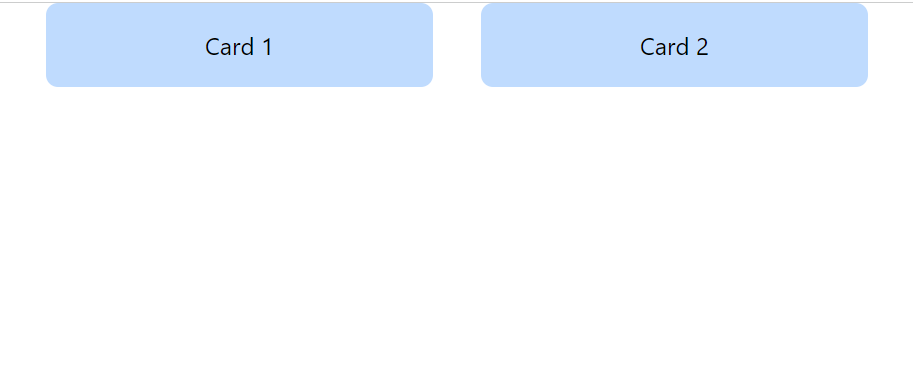
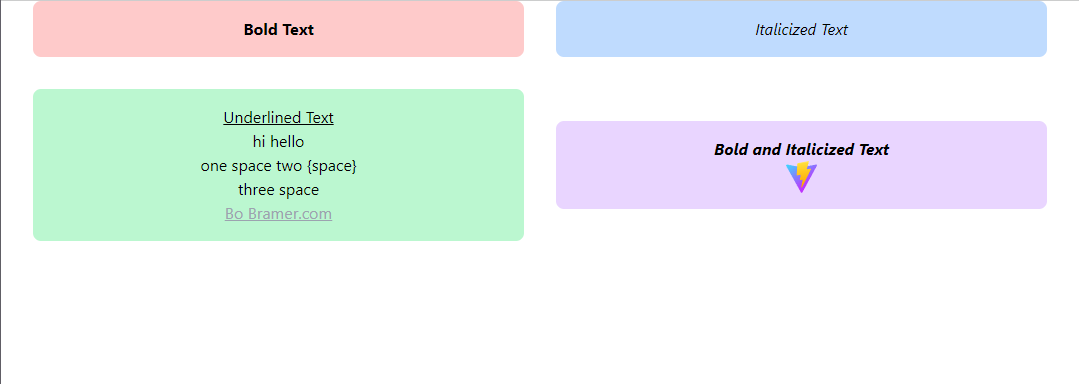
updated parser and readme

diff --git a/lib/parser.ts b/lib/parser.ts
@@ -1,8 +1,18 @@
-const regex: RegExp = /(\\begin{[^}]+}(?:\[.*\])?)|(\\end{[^}]+})/g;
 import { TreeNode } from './types';
 
 export function parse(text: string): any {
-    const queue: string[] = text.split(regex).filter(i => i?.length).map(i => i.replace(/\r\n/g, '\n'));
+    const queue: string[] = text
+        .replace(/\r\n|\n/g, '\n')
+        .replace(/ {2,}/g, '')
+        .replace(/\n\n/g, '<br>')
+        .replace(/\n/g, ' ')
+        .split(/\\/g)
+        .filter(i => i)
+        .flatMap(i => ('\\' + i).split(/(\\.*?(?:{.*?}){1,}(?:\[.*?\]){0,})/gm))
+        .map(i => i.trim())
+        .filter(i => i && i !== '<br>')
+        .flatMap(i => i.split(/<br>/g));
+
     const root: TreeNode = {
         name: 'root',
         children: []
@@ -14,11 +24,13 @@ export function parse(text: string): any {
     for (const item of queue) {
         switch (true) {
             case item.startsWith('\\begin'): {
-                const name = item.match(/\{(.*)\}/);
+                const [name, ...values] = item.match(/\{.*?\}/g)?.map(i => i.substring(1, i.length - 1)) ?? [];
+                console.log({ name, values });
                 const className = item.match(/\[(.*)\]/);
                 const node: TreeNode = {
-                    name: name ? name[1] : '',
+                    name,
                     className: className ? className[1] : undefined,
+                    values: values?.length ? values : undefined,
                     children: [],
                 };
 
@@ -34,26 +46,37 @@ export function parse(text: string): any {
                 break;
             }
 
-            default: {
-                if (stack.length === 1) continue; // no text in root
-                const children = item
-                    .replace(/^\n|\n+$/g, '')
-                    .split(/\n/g)
-                    .map(i => i.trim())
-                    .map(i => i.replaceAll('_ _', ''))
-                    .filter(i => i?.length);
-                if (!children?.length) continue;
-
-                if (children[children.length - 1] === '<br>') children.pop();
+            case item.startsWith('\\'): {
+                const name = item.match(/\\(.*?)\{/);
+                const values = item.match(/\{.*?\}/g)?.map(i => i.substring(1, i.length - 1));
+                const className = item.match(/\[(.*)\]/);
+                const node: TreeNode = {
+                    name: name ? name[1] : '',
+                    values: values ?? undefined,
+                    className: className ? className[1] : undefined,
+                };
 
                 current = stack[stack.length - 1];
                 if (!current.children) throw new Error(`invalid syntax near ${item}`);
-                for (const child in children) {
-                    current.children.push({
-                        name: 'p',
-                        value: children[child],
-                    });
-                }
+                current.children.push(node);
+                break;
+            }
+
+            default: {
+                if (stack.length === 1) continue; // no text in root
+                current = stack[stack.length - 1];
+                if (!current.children) throw new Error(`invalid syntax near ${item}`);
+
+                const formatted = item
+                    .replaceAll('_ _', '')
+                    .replace(/\*\*(.*?)\*\*/g, '<b>$1</b>')
+                    .replace(/\*(.*?)\*/g, '<i>$1</i>')
+                    .replace(/__(.*?)__/g, '<u>$1</u>')
+
+                current.children.push({
+                    name: 'p',
+                    values: [formatted]
+                });
             }
         }
     }

diff --git a/example/src/App.tsx b/example/src/App.tsx
@@ -1,23 +1,26 @@
-import './index.css';
-import testString from './test.tex?raw';
 import { Tree } from 'page-parser';
+import testString from './test.tex?raw';
+
+import './index.css';
 
 export default function App() {
     return (
-        <Tree
-            file={testString}
-            componentDefinitions={{
-                Card: ({ children, className }) => (
-                    <div className={`flex flex-1 flex-col items-center py-4 bg-blue-200 rounded-lg ${className}`}>
-                        {children}
-                    </div>
-                ),
-                Split: ({ children, className }) => (
-                    <div className={`w-full flex flex-row items-center gap-8 px-8 ${className}`}>
-                        {children}
-                    </div>
-                )
-            }}
-        />
+        <>
+            <Tree
+                file={testString}
+                componentDefinitions={{
+                    Card: ({ children, className }) => (
+                        <div className={`flex flex-1 flex-col items-center py-4 bg-blue-200 rounded-lg ${className}`}>
+                            {children}
+                        </div>
+                    ),
+                    Split: ({ children, className }) => (
+                        <div className={`w-full flex flex-row items-center gap-8 px-8 ${className}`}>
+                            {children}
+                        </div>
+                    )
+                }}
+            />
+        </>
     );
 };

diff --git a/lib/Tree.tsx b/lib/Tree.tsx
@@ -10,7 +10,8 @@ type TreeProps = { file: string } & BaseProps;
 type BaseProps = {
     componentDefinitions?: Record<string, React.FC<{
         className?: string;
-        children: React.ReactNode;
+        children?: React.ReactNode;
+        values?: string[]
     }>>;
     DefaultComponent?: React.FC<{
         className?: string;
@@ -23,7 +24,7 @@ export function TreeBranch(props: BranchProps) {
     const Component = components?.[node.name] ?? baked[node.name] ?? DefaultComponent ?? Default;
 
     return (
-        <Component className={node.className} value={node.value}>
+        <Component className={node.className} values={node.values}>
             {node.children?.map((child, i) => (
                 <TreeBranch
                     key={i}
@@ -36,7 +37,7 @@ export function TreeBranch(props: BranchProps) {
     );
 };
 
-function Default({ children, className }: { children: React.ReactNode, className?: string }) {
+export function Default({ children, className }: { children: React.ReactNode, className?: string }) {
     return (
         <div className={className}>
             {children}
@@ -50,4 +51,12 @@ export function Tree({ file, componentDefinitions, DefaultComponent }: TreeProps
         componentDefinitions={componentDefinitions}
         DefaultComponent={DefaultComponent}
     />;
+}
+
+export function Debug({ file }: { file: string }) {
+    return (
+        <pre>
+            {JSON.stringify(parse(file), null, 4)}
+        </pre>
+    )
 }

diff --git a/lib/baked.tsx b/lib/baked.tsx
@@ -3,9 +3,13 @@ import React from 'react';
 export const baked: Record<string, React.FC<{
     className?: string;
     children: React.ReactNode
-    value?: string;
+    values?: string[];
 }>> = {
-    "p": ({ value, className }) => <p className={className} dangerouslySetInnerHTML={{ __html: value ?? '' }} />,
-    "br": () => <br />,
-    "div": ({ children, className }) => <div className={className}>{children}</div>,
+    p: ({ values, className }) => <p className={className} dangerouslySetInnerHTML={{ __html: values?.[0] ?? '' }} />,
+    br: () => <br />,
+    div: ({ children, className }) => <div className={className}>{children}</div>,
+    image: ({ values, className }) => <img className={className} src={values?.[0]} />,
+    url: ({ values, className }) => <a href={values?.[0]} className={className}>{values?.[1]}</a>,
+    vspace: ({ values }) => <div style={{ height: values?.[0] }} />,
+    hspace: ({ values }) => <div style={{ width: values?.[0] }} />,
 };

diff --git a/lib/types.ts b/lib/types.ts
@@ -2,5 +2,5 @@ export type TreeNode = {
     name: string;
     className?: string;
     children?: TreeNode[];
-    value?: string;
+    values?: string[];
 };

diff --git a/example/src/test.tex b/example/src/test.tex
@@ -1,8 +1,27 @@
 \begin{Split}
-    \begin{Card}
-        Card 1
+    \begin{Card}{hello}[bg-red-200]
+        **Bold Text**
     \end{Card}
     \begin{Card}
-        Card 2
+        *Italicized Text*
+    \end{Card}
+\end{Split}
+
+\begin{Split}[mt-8]
+    \begin{Card}[bg-green-200]
+        __Underlined Text__
+
+        hi
+        hello
+
+        one space
+        two {space}
+
+        three space
+        \url{https://bo-bramer.com}{Bo Bramer.com}[text-gray-400 underline]
+    \end{Card}
+    \begin{Card}[bg-purple-200]
+        ***Bold and Italicized Text***
+        \image{vite.svg}[h-8]
     \end{Card}
 \end{Split}

diff --git a/README.md b/README.md
@@ -32,9 +32,95 @@ export default {
 
 ## Documentation
 
-### Data
+### Plain Text
 
-Data to be parsed must be a string in latex format (with spaces). This can be an inline variable, or it can be imported from a separate file. You can also pass in a dictionary for custom components defined in your Tex tree. You can also pass in a default component JSX function. Here's an example usage in Vite with React:
+Formatted text can be rendered in a few different ways such as:
+
+- \*\*Bold Text\*\* **Bold Text**
+- \*Italicized Text\* *Italicized Text*
+- \_\_Underlined Text\_\_ **Underlined Text**
+- \*\*\*Bold and Italicized Text\*\*\* ***Bold and Italicized Text***
+
+Some important things to note:
+
+Plain text separated by a single line will be condensed into one line, while plain text separated by multiple lines will remain separated. This is an intentional design choice that helps with .tex formatting while editing
+
+### Default Components
+
+#### Image
+
+```tex
+\image{src}[className]
+```
+
+#### Hyperlink
+
+```tex
+\url{link}{display}[className]
+```
+
+#### Horizontal and Vertical spacing
+
+```tex
+\vspace{space values (accepts number, string)}
+```
+
+```tex
+\hspace{space values (accepts number, string)}
+```
+
+### Custom Components
+
+You can define a custom JSX component to use in your tex definition. Every component definition can have `values`, `className`, and `children` values. Here are the type definitions for these props:
+
+```ts
+type ComponentProps = {
+    className?: string;
+    children?: React.ReactNode;
+    values?: string[]
+};
+```
+
+A empty component will not have children. This is an example of that:
+
+```tex
+\componentName{value1}{value2}{value3}{...}[className]
+```
+
+A environment component will have children. This is an example of that:
+
+```tex
+\begin{componentName}{value1}{value2}{value3}{...}[className]
+    children go here
+    these can be plain text, empty components, or nested environment components
+\end{componentName}
+```
+
+### Debugging
+
+A debug component is also included. You can use this to view the parse tree of the tex string. It will output a JSON string onto the page. You can use it as follows (this is using vite, so you can import raw files using the ?raw delim):
+
+```tsx
+import { Debug } from 'page-parser';
+import definition from './definition.tex?raw';
+
+export default function App() {
+    return (
+        <Debug file={definition}/>
+    );
+};
+```
+
+You can also use the parse function to gather the actual tree as a JSON object. You can use it as follows:
+
+```ts
+import { parse } from 'page-parser';
+import definition from './definition.tex?raw';
+
+console.log(parse(definition));
+```
+
+### Full example
 
 #### App.tsx
 
@@ -72,11 +158,30 @@ export default function App() {
 
 ```tex
 \begin{Split}
-    \begin{Card}
-        Card 1
+    \begin{Card}[bg-red-200]
+        **Bold Text**
     \end{Card}
     \begin{Card}
-        Card 2
+        *Italicized Text*
+    \end{Card}
+\end{Split}
+
+\begin{Split}[mt-8]
+    \begin{Card}[bg-green-200]
+        __Underlined Text__
+
+        hi
+        hello
+
+        one space
+        two {space}
+
+        three space
+        \url{https://bo-bramer.com}{Bo Bramer.com}[text-gray-400 underline]
+    \end{Card}
+    \begin{Card}[bg-purple-200]
+        ***Bold and Italicized Text***
+        \image{vite.svg}[h-8]
     \end{Card}
 \end{Split}
 ```
@@ -89,6 +194,7 @@ export default function App() {
 
 - Add more prebaked components for standard components like img, pre, etc.
 - Add support for custom tex-like commands, for example \image{filepath.png}[className]
+- Build parser to convert .tex files into React components
 
 ### Credit
 
